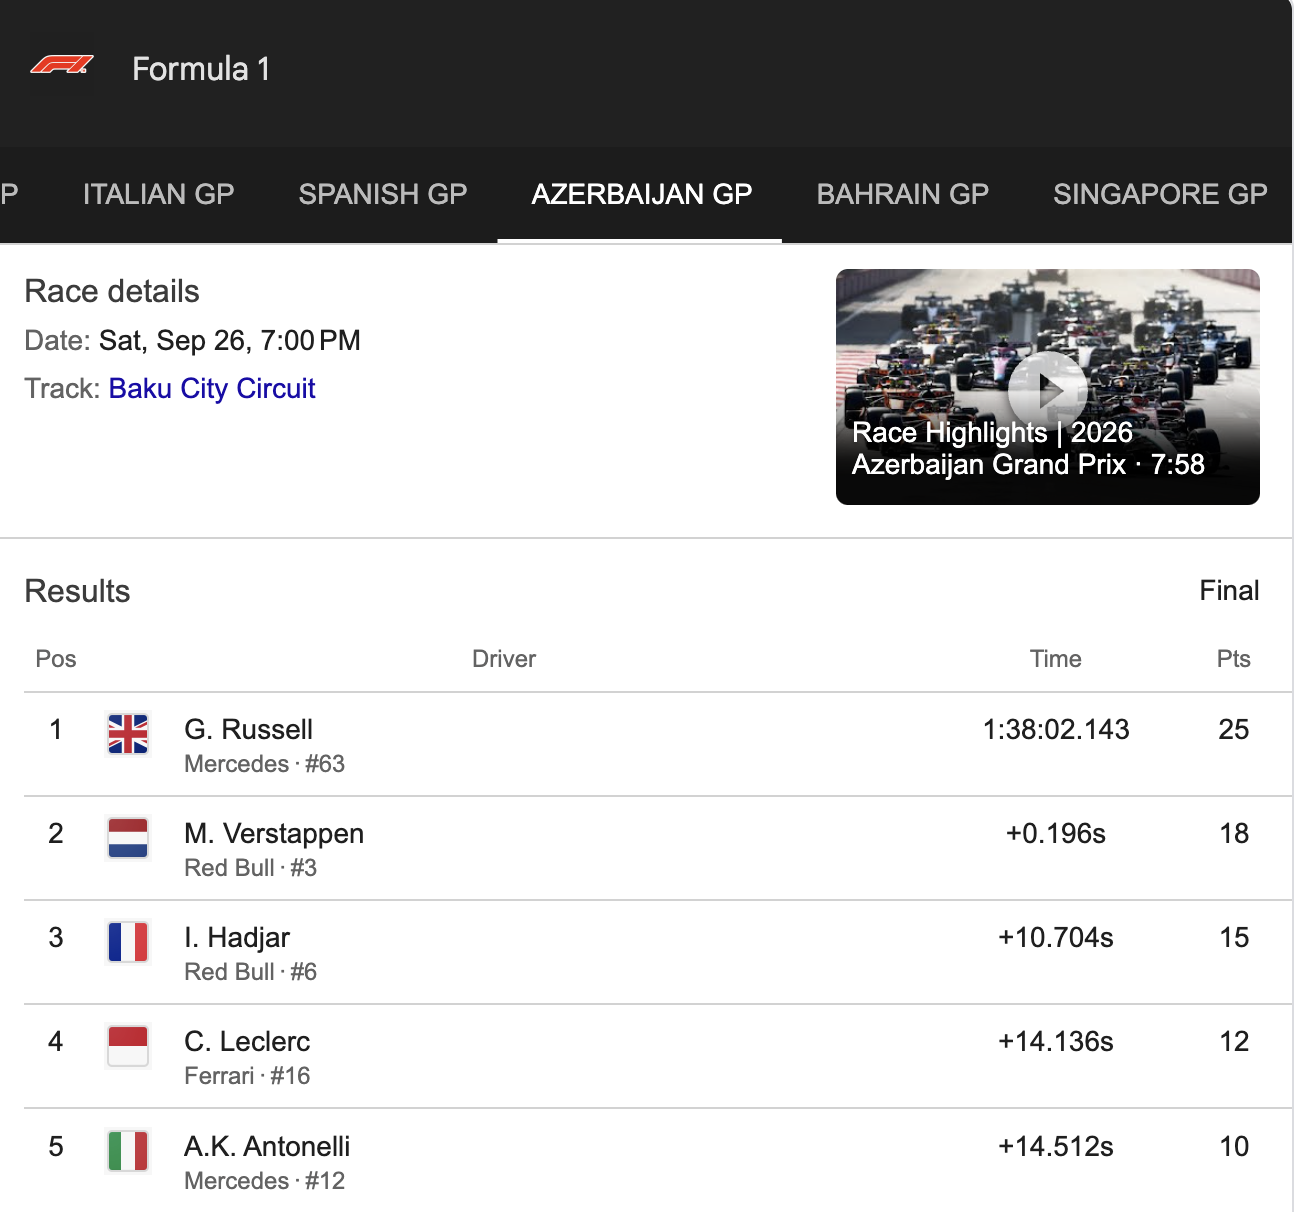
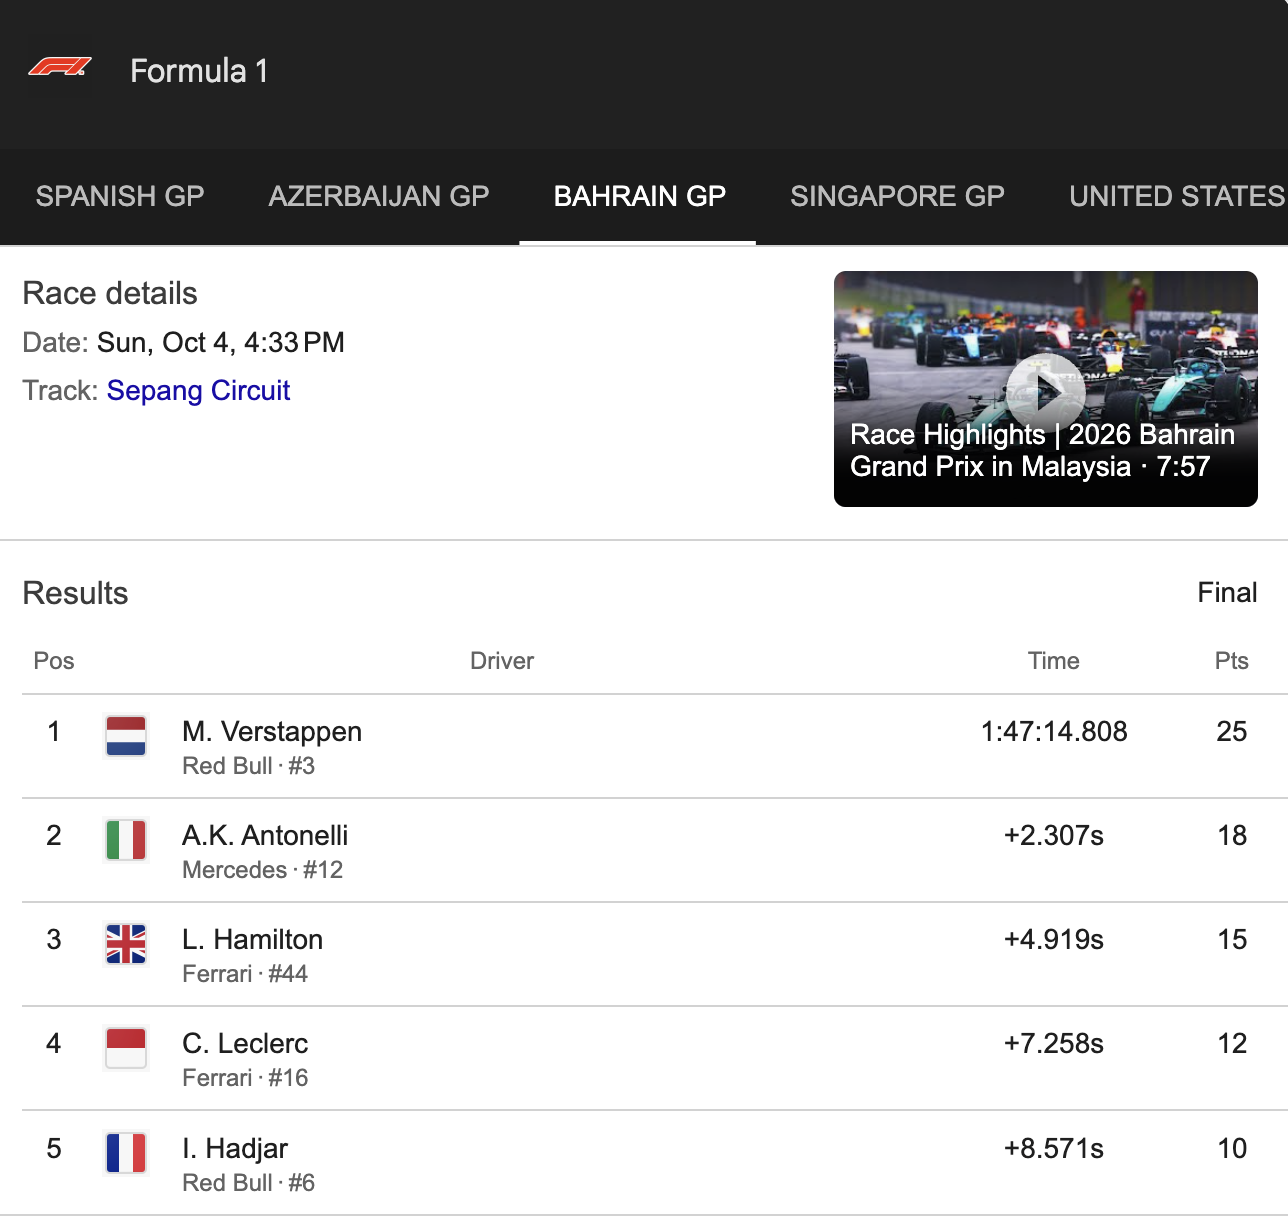
Updated README + result screenshots

diff --git a/README.md b/README.md
@@ -42,8 +42,8 @@ The model uses completed rounds of the 2026 season and the target qualifying ses
 * **Result:** **2/3 of the podiums correct!** We successfully predicted George Russell to win and correctly placed Isack Hadjar in P3.
 
 <p align="center">
-  <img src="outputs/2026_azerbaijan_gp/act3_azerbaijan_gp_prediction.png" width="45%" title="Prediction" />
-  <img src="other_media/azerbaijan_gp_result.png" width="45%" title="Actual Result" />
+  <img src="outputs/2026_azerbaijan_gp/act3_azerbaijan_gp_prediction.png" width="45%" alt="Azerbaijan GP prediction" title="Prediction" />
+  <img src="other_media/azerbaijan_gp_result.png" width="45%" alt="Azerbaijan GP actual result" title="Actual Result" />
 </p>
 
 
@@ -52,7 +52,10 @@ The model uses completed rounds of the 2026 season and the target qualifying ses
 * **Actual Top 5:** TBD
 * **Result:** TBD
 
-![Bahrain GP Prediction vs Reality](outputs/2026_bahrain_gp/act3_bahrain_gp_prediction.png)
+<p align="center">
+  <img src="outputs/2026_bahrain_gp/act3_bahrain_gp_prediction.png" width="45%" alt="Bahrain GP prediction" title="Prediction" />
+  <img src="other_media/bahrain_gp_result.png" width="45%" alt="Bahrain GP actual result" title="Actual Result" />
+</p>
 
 
 ---
@@ -63,7 +66,10 @@ The model uses completed rounds of the 2026 season and the target qualifying ses
 * **Predicted Top 5:** 1. Verstappen, 2. Antonelli, 3. Leclerc, 4. Hamilton, 5. Norris.
 * **Validation:** Walk-forward ensemble MAE **2.31 positions**, R² **0.673**, evaluated on rounds 2–16 using only earlier rounds for each fold.
 
-![Singapore GP Prediction](outputs/2026_singapore_gp/act3_singapore_gp_prediction.png)
+<p align="center">
+  <img src="outputs/2026_singapore_gp/act3_singapore_gp_prediction.png" width="45%" alt="Singapore GP prediction" title="Prediction" />
+  <img src="other_media/singapore_gp_result.png" width="45%" alt="Singapore GP actual result" title="Actual Result" />
+</p>
 
 The existing pipeline now targets Singapore. All new artifacts are in `outputs/2026_singapore_gp/`, including qualifying and adjusted-grid CSVs, training and prediction feature matrices, validation predictions, charts, and the prediction report. Previous event outputs remain available in their existing folders. FastF1's local cache is ignored by Git.
 
